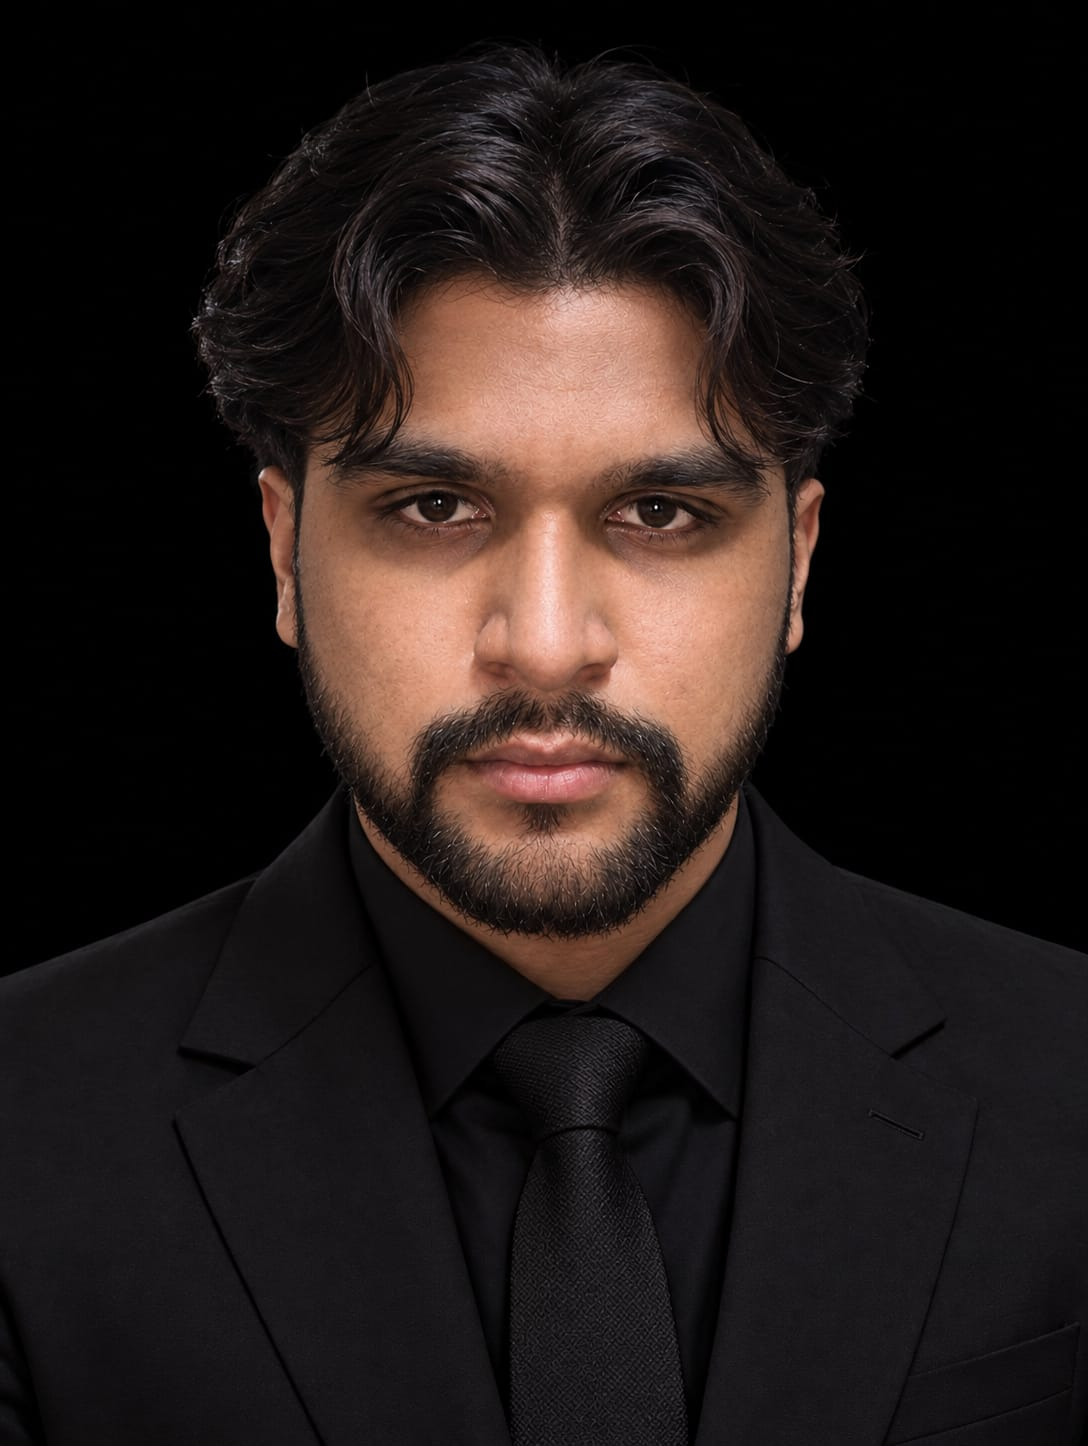
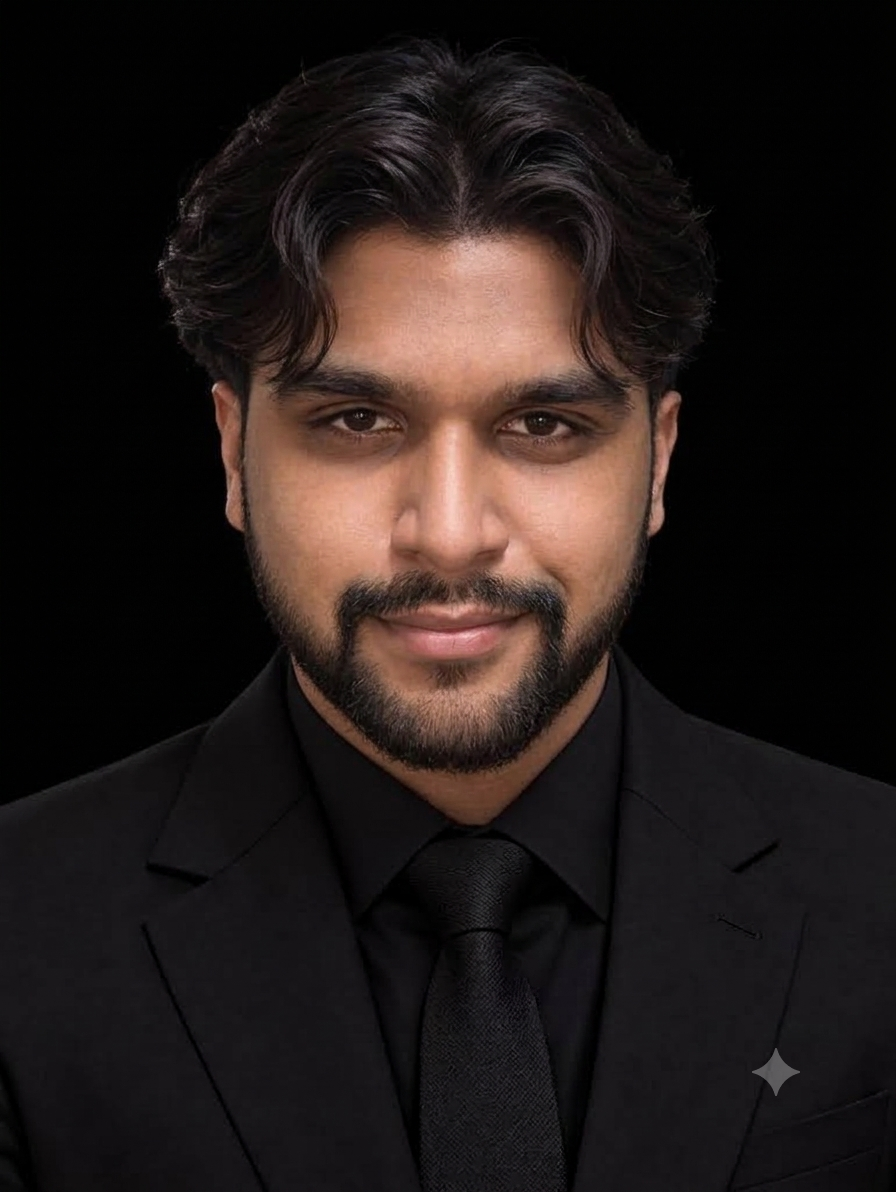
Fix reveal photos and remove lens zoom

diff --git a/src/components/PortraitReveal.jsx b/src/components/PortraitReveal.jsx
@@ -11,7 +11,6 @@ import { personal } from "../data/portfolio";
 
 const REVEAL_SIZE = 110; // radius of the reveal circle, in pixels
 const RING_SCALE = 0.82; // where the gold ring sits, relative to the circle
-const ZOOM = 1.08; // lens magnification inside the circle
 
 const edgeFade =
   "radial-gradient(ellipse 70% 75% at 50% 45%, black 60%, transparent 100%)";
@@ -39,10 +38,6 @@ export default function PortraitReveal() {
   const ringTop = useMotionTemplate`${smoothY}%`;
   const ringSize = useTransform(radius, (r) => r * 2 * RING_SCALE);
   const ringOpacity = useTransform(radius, [0, REVEAL_SIZE], [0, 1]);
-
-  // Lens zoom: the real photo grows slightly, centered on the cursor
-  const zoom = useTransform(radius, [0, REVEAL_SIZE], [1, ZOOM]);
-  const zoomOrigin = useMotionTemplate`${smoothX}% ${smoothY}%`;
 
   // Gold dust particles
   const [dust, setDust] = useState([]);
@@ -119,7 +114,6 @@ export default function PortraitReveal() {
         alt={`Portrait of ${personal.name}`}
         draggable={false}
         className="absolute inset-0 h-full w-full object-contain"
-        style={{ scale: reduce ? 1 : zoom, transformOrigin: zoomOrigin }}
       />
 
       {/* Top layer: the masked figure, with a hole where the cursor is */}
